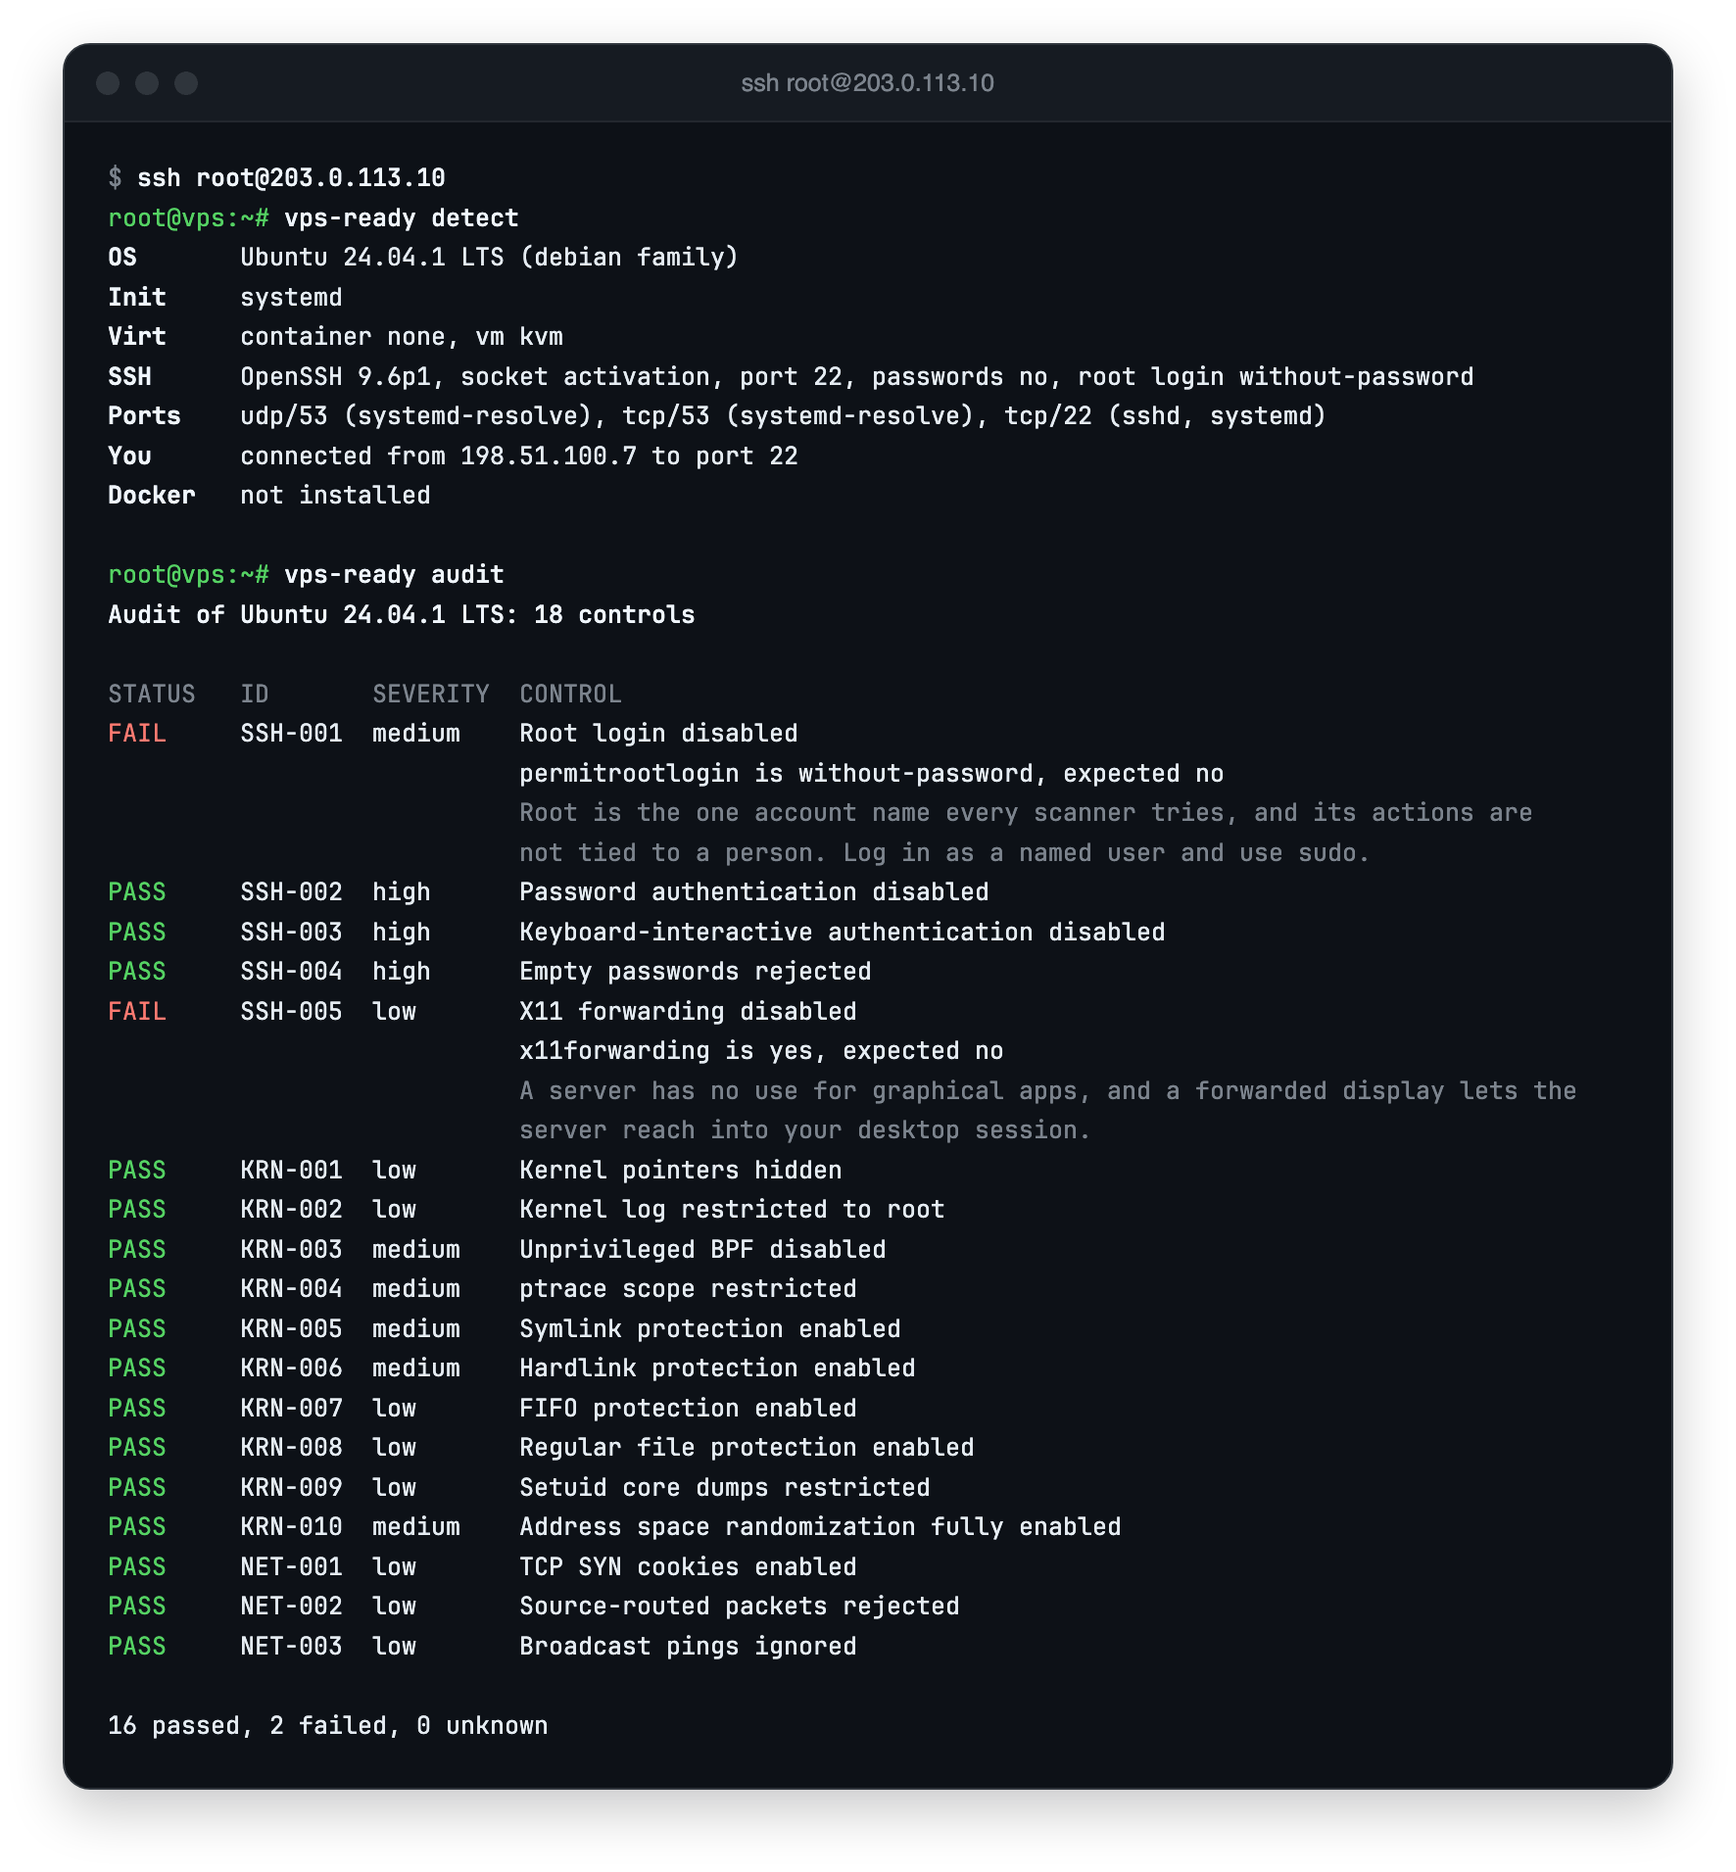
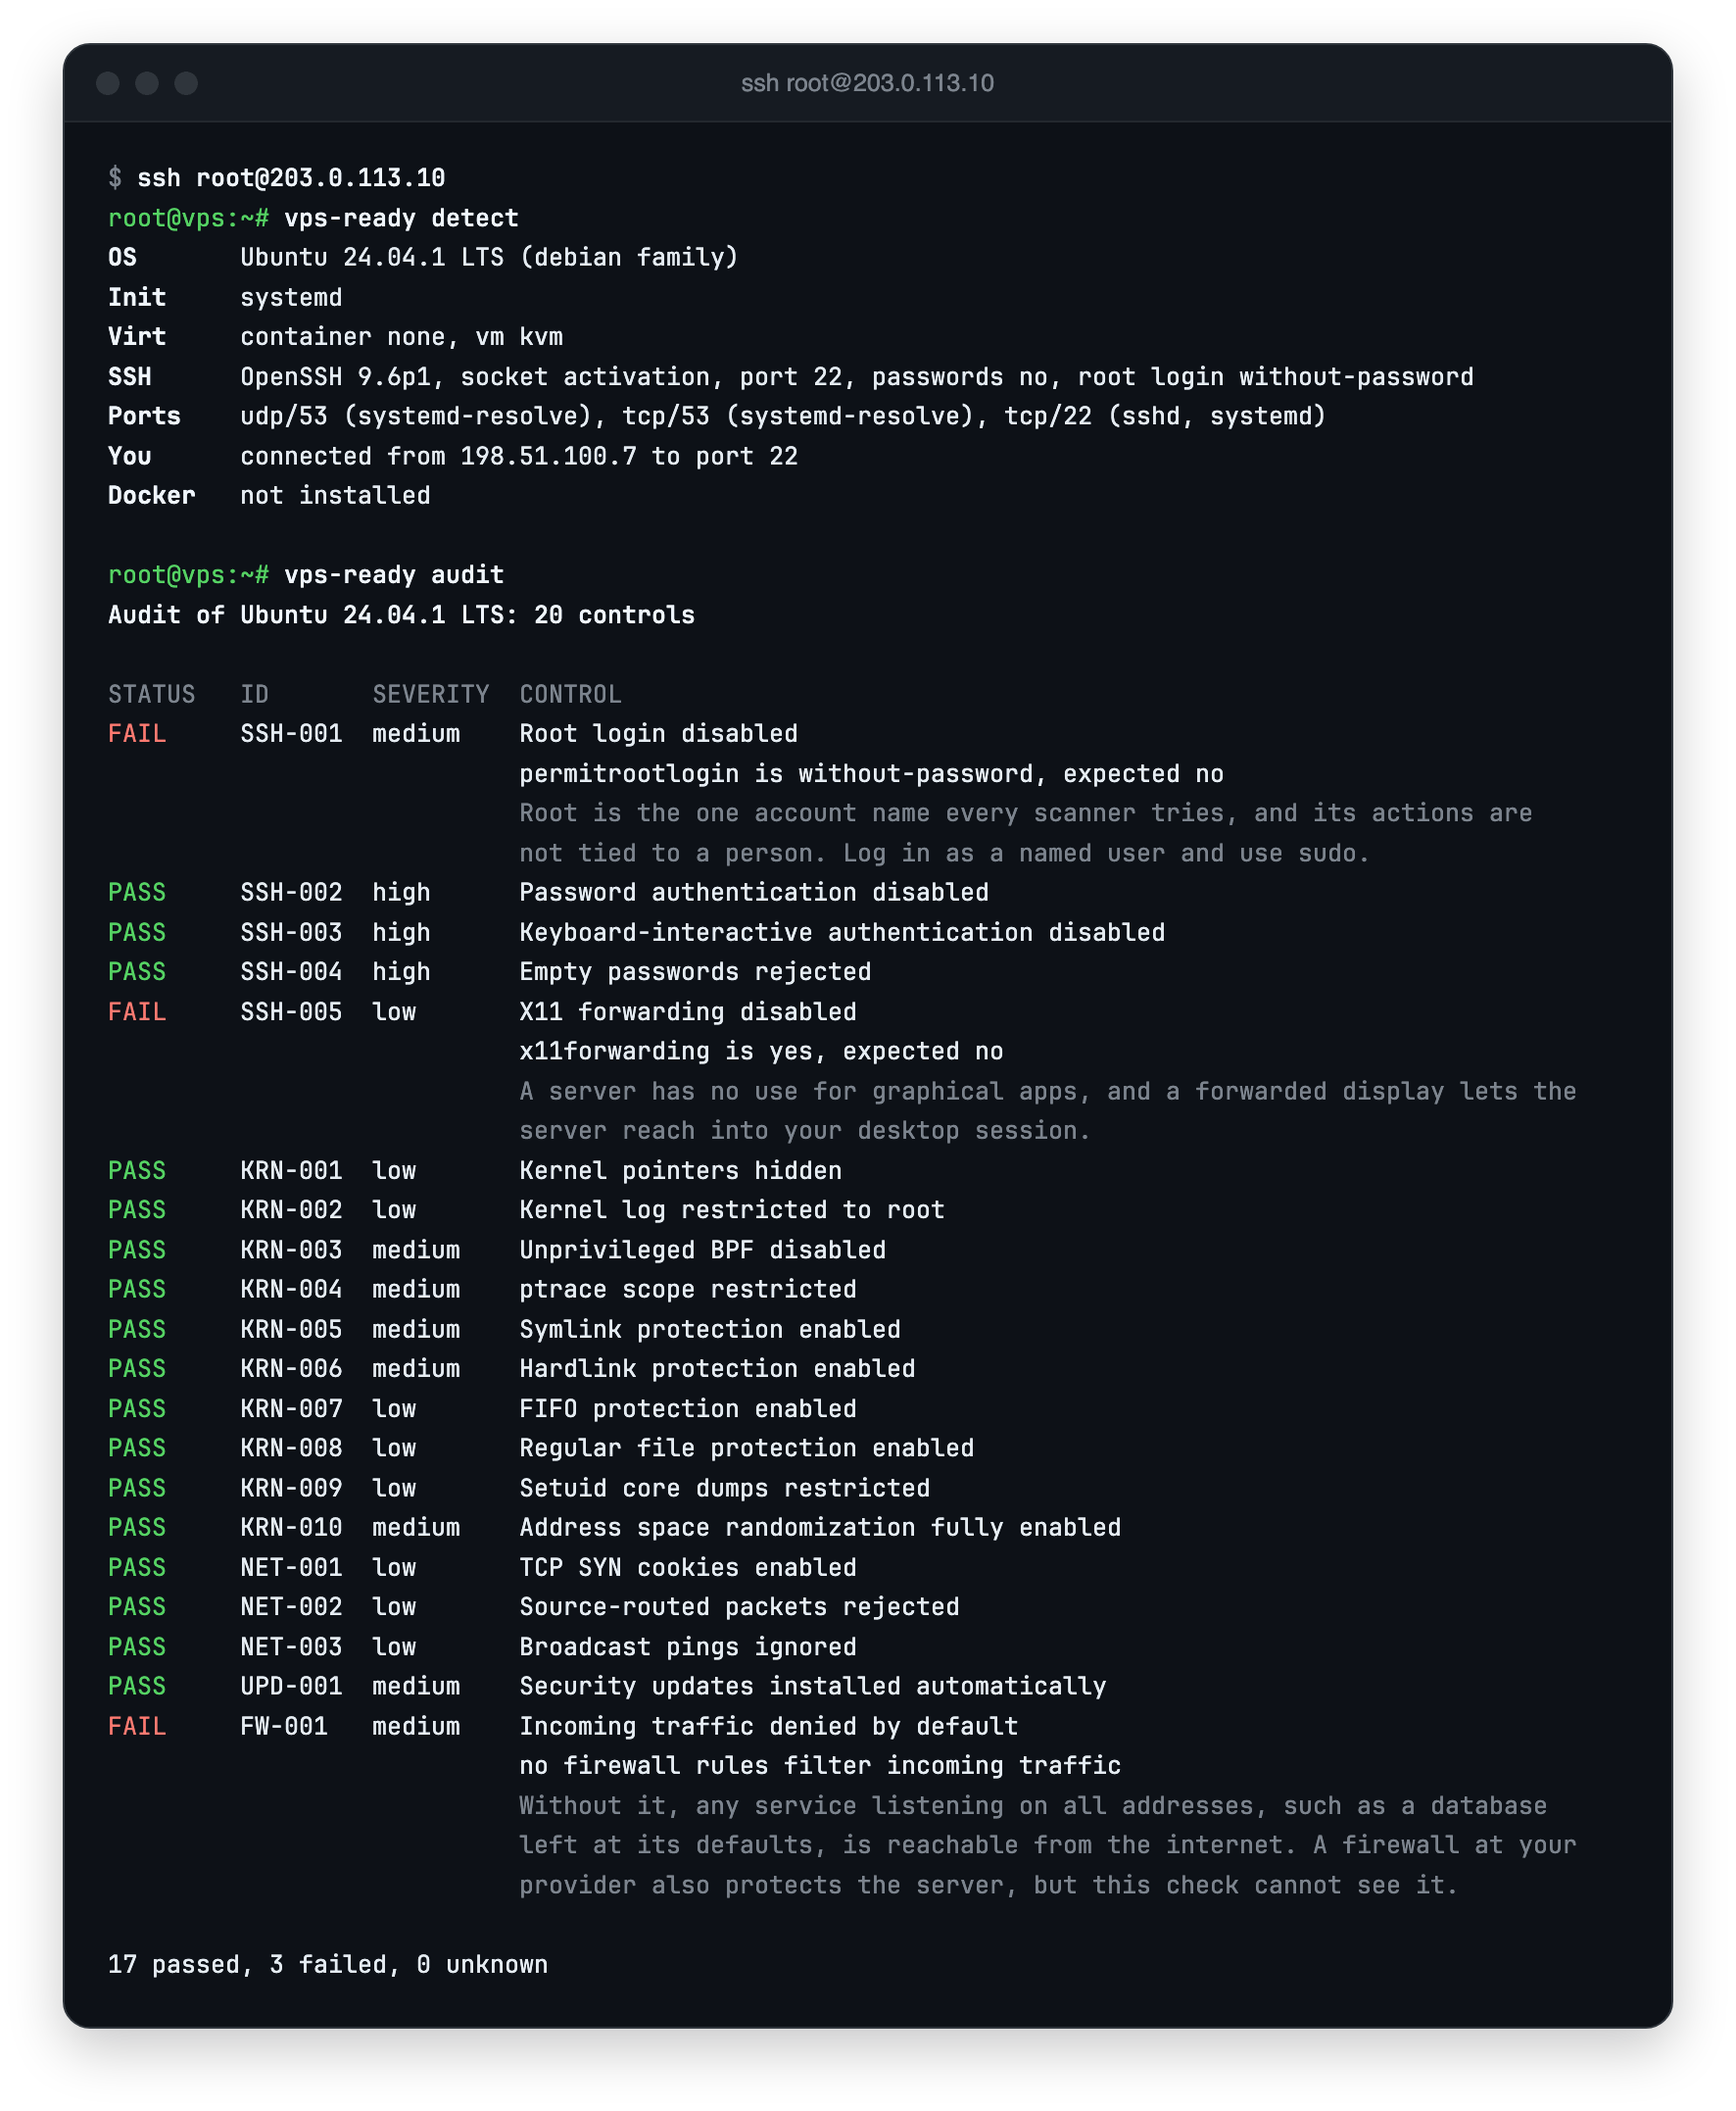
chore: release v0.1.0-alpha.4 (#16)
## What does this PR do?

Bumps the version to `0.1.0-alpha.4` so UPD-001 (#13) and FW-001 (#14)
can be released, and refreshes the README demo for the 20 controls. Once
this merges, tag `v0.1.0-alpha.4` on the merge commit.

- `Cargo.toml`, `Cargo.lock`: the workspace version and the `=` pin used
by the `vpsready` alias crate. No dependency changes.
- `README.md`, `crates/vpsready/README.md`: install and `cargo install
--version` lines point to alpha.4.
- `assets/demo.png` and its alt text: the same simulated Ubuntu 24.04
VPS, now with UPD-001 passing (unattended-upgrades is on in Ubuntu cloud
images) and FW-001 failing (ufw installed but inactive): "17 passed, 3
failed, 0 unknown". Rows and texts come from the control files, wrapped
at the CLI's 72 columns.

<img
src="https://github.com/bhimrazy/vps-ready/blob/fe3216c58d9cc417a73db741bfd774b126699004/pr-16/demo-light-dark.png?raw=true"
width="100%" alt="The new README demo on a light and a dark background">

diff --git a/README.md b/README.md
@@ -39,7 +39,7 @@ Auditors like Lynis tell you what is wrong but fix nothing. Ansible roles fix th
 On the server, as root. Installation is three steps on purpose: download, read, run.
 
 ```console
-# curl -fsSLO https://github.com/bhimrazy/vps-ready/releases/download/v0.1.0-alpha.3/install.sh
+# curl -fsSLO https://github.com/bhimrazy/vps-ready/releases/download/v0.1.0-alpha.4/install.sh
 # less install.sh
 # sh install.sh        # checks the SHA-256, verifies the signature if gh or cosign is installed
 # vps-ready detect
@@ -47,11 +47,11 @@ On the server, as root. Installation is three steps on purpose: download, read, 
 ```
 
 <p align="center">
-  <img src="assets/demo.png" alt="An SSH session on an Ubuntu 24.04 VPS: vps-ready detect shows the OS, init system, KVM, SSH settings, open ports and the admin's connection; vps-ready audit then checks 18 SSH, kernel and network controls, 16 passed and 2 failed, each failure showing the value found and why it matters" width="88%">
+  <img src="assets/demo.png" alt="An SSH session on an Ubuntu 24.04 VPS: vps-ready detect shows the OS, init system, KVM, SSH settings, open ports and the admin's connection; vps-ready audit then checks 20 SSH, kernel, network, update and firewall controls, 17 passed and 3 failed, each failure showing the value found and why it matters" width="88%">
   <br><sub>Example session on an Ubuntu 24.04 VPS.</sub>
 </p>
 
-The command is also installed as `vpsready`, without the hyphen. With Rust installed you can build from source instead: `cargo install vps-ready --version 0.1.0-alpha.3 --locked`. Signed packages for apt, dnf and apk are planned for v0.5. The trust model of each install channel is in [the release doc](docs/release.md).
+The command is also installed as `vpsready`, without the hyphen. With Rust installed you can build from source instead: `cargo install vps-ready --version 0.1.0-alpha.4 --locked`. Signed packages for apt, dnf and apk are planned for v0.5. The trust model of each install channel is in [the release doc](docs/release.md).
 
 ## What it does
 

diff --git a/crates/vpsready/README.md b/crates/vpsready/README.md
@@ -9,6 +9,6 @@ cargo install vps-ready --locked    # installs `vps-ready`
 cargo install vpsready --locked     # installs `vpsready`, the same tool
 ```
 
-Until v0.1.0 only pre-releases exist, and `cargo install` skips them by default: add `--version 0.1.0-alpha.3` (or the latest alpha).
+Until v0.1.0 only pre-releases exist, and `cargo install` skips them by default: add `--version 0.1.0-alpha.4` (or the latest alpha).
 
 See the [vps-ready README](https://github.com/bhimrazy/vps-ready#readme) for documentation.
